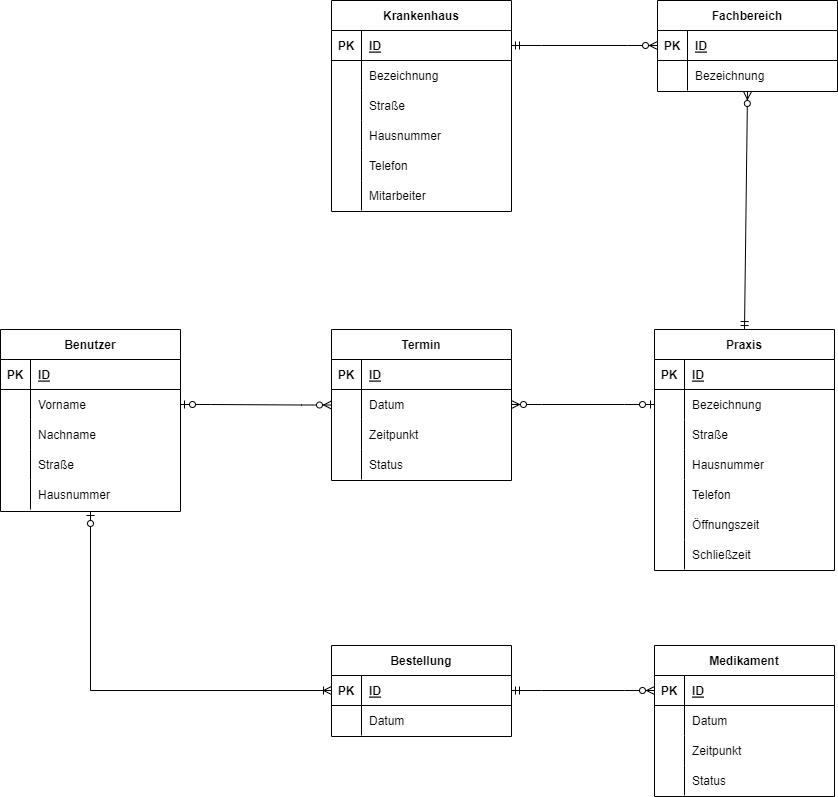
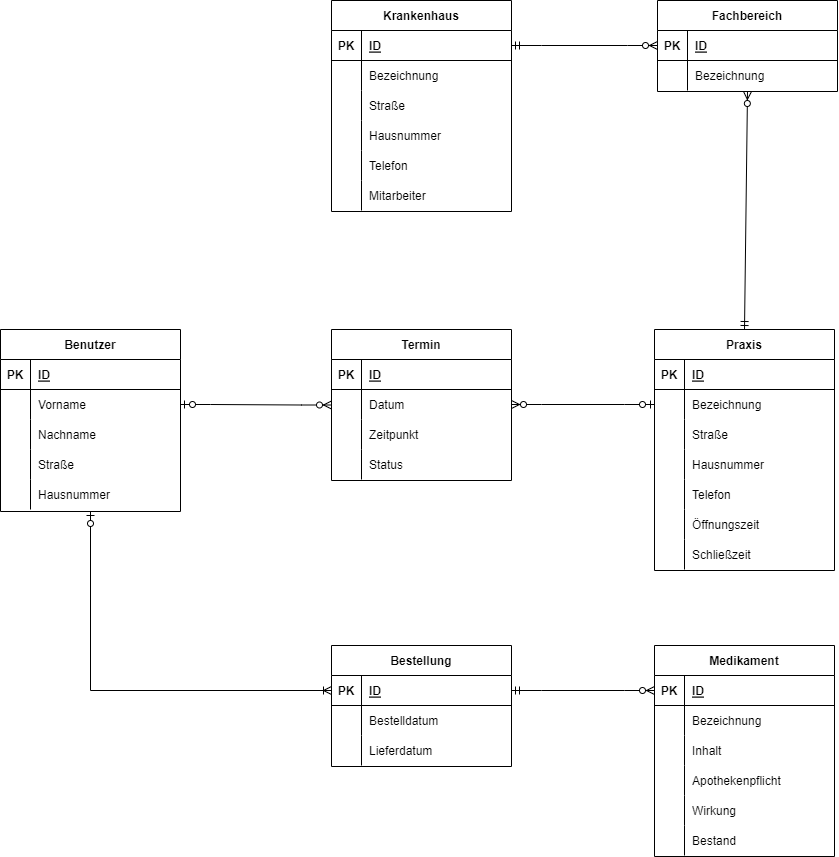
Documentation

diff --git a/gesundheitsportal/index.md b/gesundheitsportal/index.md
@@ -95,85 +95,59 @@ einschreiben kann, sofern diese frei sind. Die Praxis hat die Möglichkeit ihre 
 <br>
 
 
-# Abläufe
-
-- Aktivitätsdiagramm für den Ablauf sämtlicher Use Cases
-- Aktivitätsdiagramme für relevante Use Cases
-- Aktivitätsdiagramm mit Swimlanes sind in der Regel hilfreich 
-  für die Darstellung der Interaktion von Akteuren der Use Cases / User Stories
-- Abläufe der Kommunikation von Rechnerknoten (z.B. Client/Server)
-  in einem Sequenz- oder Aktivitätsdiagramm darstellen
-- Modellieren Sie des weiteren die Diagramme, die für das (eigene) Verständnis des
-  Softwaresystems hilfreich sind. 
-
-
 # Schnittstellen
 
-- Schnittstellenbeschreibung (API), z.B. mit OpenAPI 
-- Auflistung der nach außen sichtbaren Schnittstelle des Microservices. Über welche Schnittstelle kann z.B. der Client den Server erreichen?
-- In Event-gesteuerten Systemen ebenfalls die Definition der Ereignisse und deren Attribute
-- Aufteilen in Commands, Events, Queries
-* Abhängigkeiten: Liste mit Kommunikationsabhängigkeiten zu anderen Microservices
+## Rest-API
 
+| **route** |  **Type** | **Consumes** | **Params** | **Produces** |
+| :------ | :----- | :----- | :----- | :----- |
+| /clinic | GET | nothing | none | clinic list
+| /clinic/:id | GET | nothing | clinic_id | clinic data
+| /clinic | POST | title, street, house, phone, opening, closing, owner_id | none | new clinic
+| /clinic/:id | DELETE | nothing | clinic_id | deletes clinic
+| /clinic/:id | PUT | title, street, house, phone, opening, closing, owner_id | clinic_id | changes clinic
 
-## URL
+<br>
 
-http://smart.city/microservices/customer
+| **route** |  **Type** | **Consumes** | **Params** | **Produces** |
+| :------ | :----- | :----- | :----- | :----- |
+| /medicine | GET | nothing | none | medicine list
+| /medicine/:id | GET | nothing | medicine_id | medicine data
+| /medicine | POST | title, content, pharmacy_duty, effect | none | new medicine
+| /medicine | DELETE | nothing | medicine_id | deletes medicine
+| /medicine | PUT | title, content, pharmacy_duty, effect | medicine_id | changes medicine
 
-## Commands
+<br>
 
-**Synchronous**
+| **route** |  **Type** | **Consumes** | **Params** | **Produces** |
+| :------ | :----- | :----- | :----- | :----- |
+| /order | GET | nothing | none | order list
+| /order/:id | GET | nothing | order_id | order data
+| /order | POST | order_date, medicine_list | none | new order
+| /order | DELETE | nothing | order_id | deletes order
 
-| **Name** | **Parameter** | **Resultat** |
-| :------ | :----- | :------ |
-| createCustomer() | int id | int id |
-| deleteOrder() | int id | int id |
+<br>
 
-**Asynchronous**
+| **route** |  **Type** | **Consumes** | **Params** | **Produces** |
+| :------ | :----- | :----- | :----- | :----- |
+| /appointment/citizen | GET | nothing | none | appointment from citizen list
+| /appointment/clinic/:id | GET | nothing | clinic_id | appointment from clinic data 
+| /appointment | POST | date, clinic_id, citizen_id | none | new appointment
+| /appointment/:id | DELETE | nothing | appointment_id | deletes appointment
 
-| **Name** | **Parameter** | **Resultat** |
-| :------ | :----- | :------ |
-| createContract() | int id | int id |
-| changeContract() | int id | - |
 
 ## Events
 
-**Customer event channel**
-
 | **Name** | **Payload** | 
 | :------ | :----- | 
-| Customer Authorized | int id |
-| Customer Deleted | int id |
-
-**Contract event channel**
-
-| **Name** | **Payload** | 
-| :------ | :----- | 
-| Contract Received | int id |
-| Contract Deleted | int id |
-
-## Queries
-
-| **Name** | **Parameter** | **Resultat** |
-| :------ | :----- | :------ |
-| getContracts() | - | Contract [] list |
-| getContract() | int id | Contract c |
+| order created | order data |
+| appointment accepted | appointment data |
 
 ## Dependencies
 
-### RPC
-
 | **Service** | **Funktion** |
 | :------ | :----- | 
-| Authorization Service | authenticateUser() |
-| Hospital Service | blockDate() |
-
-#### Event-Subscriptions
-
-| **Service** | **Funktion** |
-| :------ | :----- | 
-| Cinema channel | CancelFilmCreatedEvent |
-| Customer reply channel | CreateCustomerEvent |
+| Authentication Middleware | authMiddleware() |
 
 
 # Technische Umsetzung
@@ -186,39 +160,36 @@ Hier stellen Sie die Verteilung der Softwarebausteine auf die Rechnerknoten dar.
 
 * Server
   * Web-Schicht
+    * HTTP
+    * NestJs with Express Routing
   * Logik-Schicht
+    * NodeJs
+    * Prisma
   * Persistenz-Schicht
+    * MySQL-Datenbank
 
 * Client
   * View-Schicht
+    * HTML
+    * CSS
   * Logik-Schicht
+    * Javascript
   * Kommunikation-Schicht
-
-Die Abhängigkeit ist bei diesen Schichten immer unidirektional von "oben" nach "unten". Die Softwarearchitektur aus Kapitel "Softwarearchitektur" ist demnach detaillierter als die Systemübersicht aus dem Kapitel "Systemübersicht". Die Schichten können entweder als Ganzes als ein Softwarebaustein angesehen werden. In der Regel werden die Schichten aber noch weiter detailliert und in Softwarebausteine aufgeteilt. 
-
-## Entwurf
-
-- Detaillierte UML-Diagramme für relevante Softwarebausteine
+    * HTTP
 
 ## Fehlerbehandlung 
 
-* Mögliche Fehler / Exceptions auflisten
-* Fehlercodes / IDs sind hilfreich
-* Nicht nur Fehler technischer Art ("Datenbankserver nicht erreichbar") definieren, sondern auch fachliche Fehler wie "Kunde nicht gefunden", "Nachricht wurde bereits gelöscht" o.ä. sind relevant. 
+| **ID** | **Fehler** |
+| :------ | :----- | 
+| 400 | Bad Request |
+| 401 | Unauthorized |
+| 403 | Forbidden |
+| 404 | Not Found |
+| 500 | Internal Server Error |
 
-## Validierung
-
-* Relevante (Integrations)-Testfälle, die aus den Use Cases abgeleitet werden können
-* Testfälle für 
-  - Datenmodell
-  - API
-  - User Interface
-* Fokussieren Sie mehr auf Integrationstestfälle als auf Unittests
-* Es bietet sich an, die IDs der Use Cases / User Stories mit den Testfällen zu verbinden,
-  so dass erkennbar ist, ob Sie alle Use Cases getestet haben.
 
 ## Verwendete Technologien
 
 * Frontend: Javascript, React
-* Backend: Javascript, ExpressJS
+* Backend: Typescript, NestJs
 * Datenbank: MySQL
